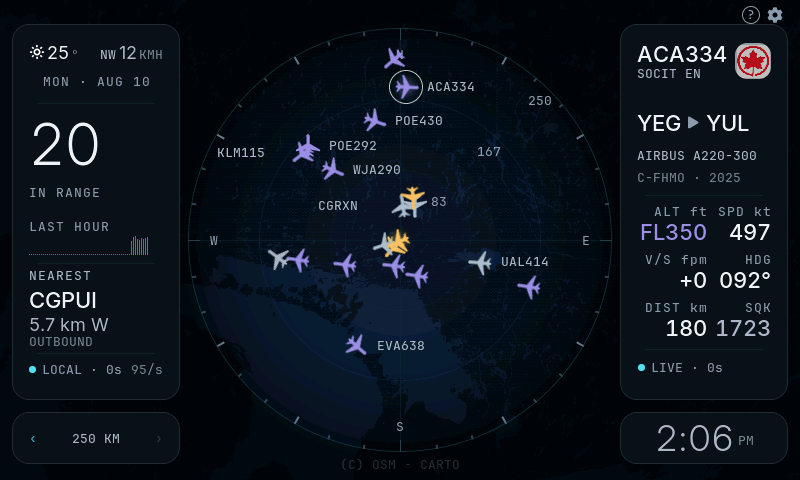
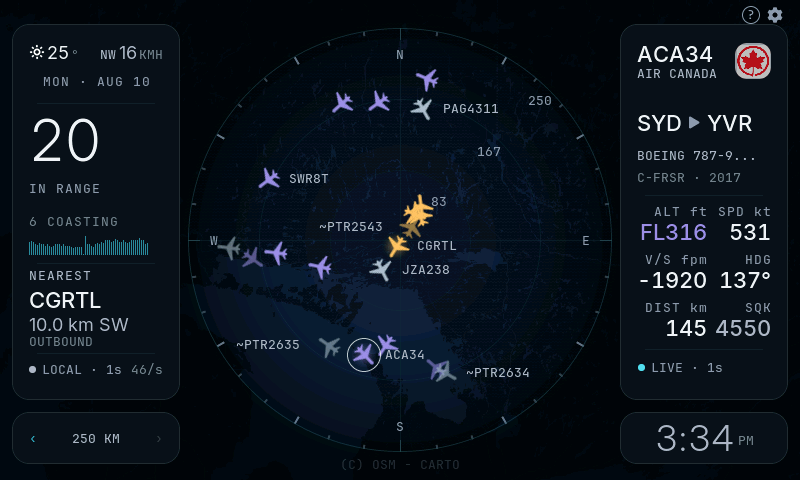
docs: hero capture with a full hour of sparkline, and coasting marks visible

diff --git a/README.md b/README.md
@@ -9,14 +9,17 @@ draws the sky above your house on a 7-inch panel.
 
 [![firmware](https://img.shields.io/badge/firmware-v7.2.6-6fc7d8?style=flat-square)](docs/HISTORY.md) [![platform](https://img.shields.io/badge/ESP32--S3-16MB%20%2F%208MB%20PSRAM-9b8ce0?style=flat-square)](docs/HARDWARE.md) [![ui](https://img.shields.io/badge/LVGL-8.3.11-ffc061?style=flat-square)](https://lvgl.io) [![data](https://img.shields.io/badge/API%20keys%20required-none-6fc7d8?style=flat-square)](#data-sources) [![install](https://img.shields.io/badge/install-one--click%20web%20flasher-9b8ce0?style=flat-square)](https://mrronco.github.io/AirRadar/flasher/) [![license](https://img.shields.io/badge/license-GPL--3.0--or--later-ffc061?style=flat-square)](LICENSE)
 
-<img src="docs/img/panel.png" width="820" alt="AirRadar main screen: a full-bleed dark base map under a coverage disc ringed by a graduated bearing bezel, twenty violet altitude-coloured aircraft with their callsigns, a traffic sparkline in the left card, and an Air Canada A220 pinned in the right-hand card with its logo, its Edmonton to Montreal route and a live instrument grid">
+<img src="docs/img/panel.png" width="820" alt="AirRadar main screen: a full-bleed dark base map under a coverage disc ringed by a graduated bearing bezel, twenty aircraft with their callsigns, three of them greyed and prefixed with a tilde to mark dead-reckoned positions, a full hour of traffic history as a sparkline in the left card, and an Air Canada 787 pinned in the right-hand card with its logo, its Sydney to Vancouver route and a live instrument grid">
 
 <sub>Live capture off the device via <code>GET /screen.bmp</code> — the actual framebuffer, not a
-mockup, and not a rendering of one. Twenty aircraft on an ordinary afternoon; an Air Canada A220 is
-pinned, so the right-hand card carries its operator logo, route, airframe and a live instrument
-grid. In the left card, <b>LAST HOUR</b> is a sparkline of aircraft-in-range per minute (short here
-— the device had been up fifteen minutes), and the nearest target reads <code>OUTBOUND</code>
-rather than a bare distance. The disc is ringed by a bearing scale graduated every 10°.</sub>
+mockup, and not a rendering of one. Twenty aircraft on an ordinary afternoon; the pinned target is
+a Boeing 787 eleven hours into <b>Sydney → Vancouver</b>, so the right-hand card carries its
+operator logo, route, airframe and a live instrument grid. The sparkline in the left card is a full
+hour of aircraft-in-range, one bar per minute. Three callsigns are greyed and prefixed <code>~</code>:
+those positions are dead-reckoned from the last known heading rather than reported, and the panel
+says so instead of drawing them like the rest. The row above the sparkline reads
+<code>6&nbsp;COASTING</code> rather than <code>LAST HOUR</code> — the two share the slot, and the
+count wins whenever there is one. The disc is ringed by a bearing scale graduated every 10°.</sub>
 
 </div>
 
